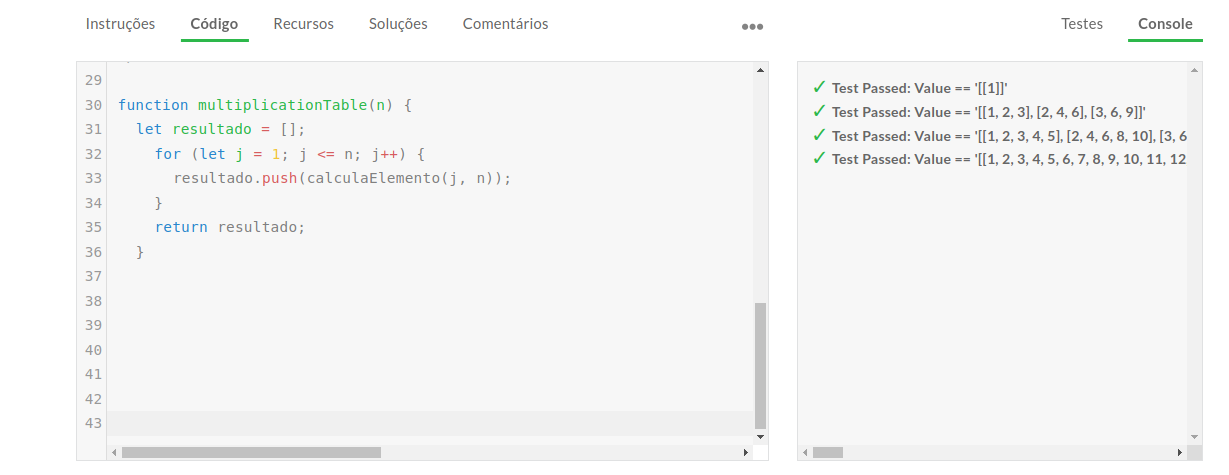
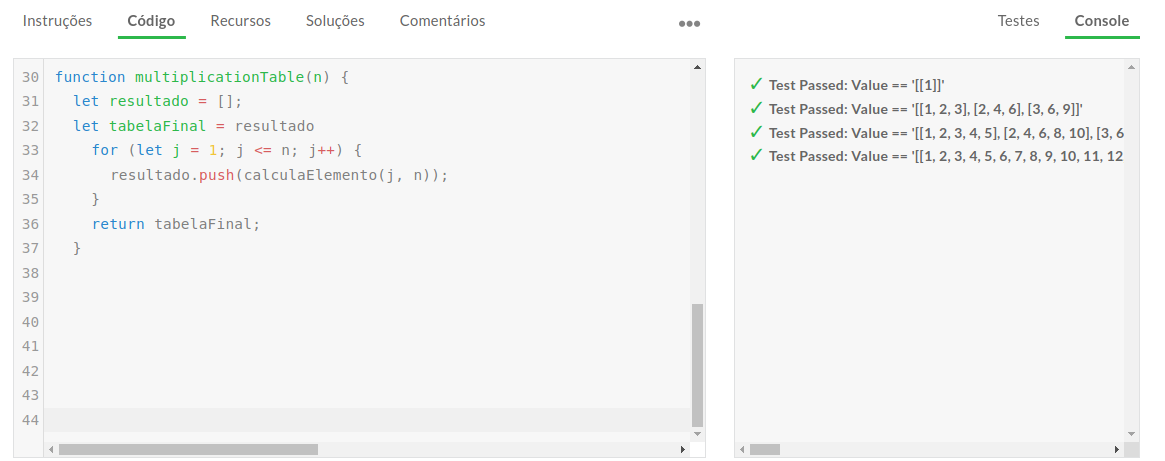
Update index.js

diff --git a/index.js b/index.js
@@ -29,14 +29,15 @@ output:
 
 function multiplicationTable(n) {
 	let resultado = [];
+  let tabelaFinal = resultado
     for (let j = 1; j <= n; j++) {
       resultado.push(calculaElemento(j, n));
     }
-    return resultado;
+    return tabelaFinal;
   }
 
 
 
-
+console.log(multiplicationTable(10))
 
 
